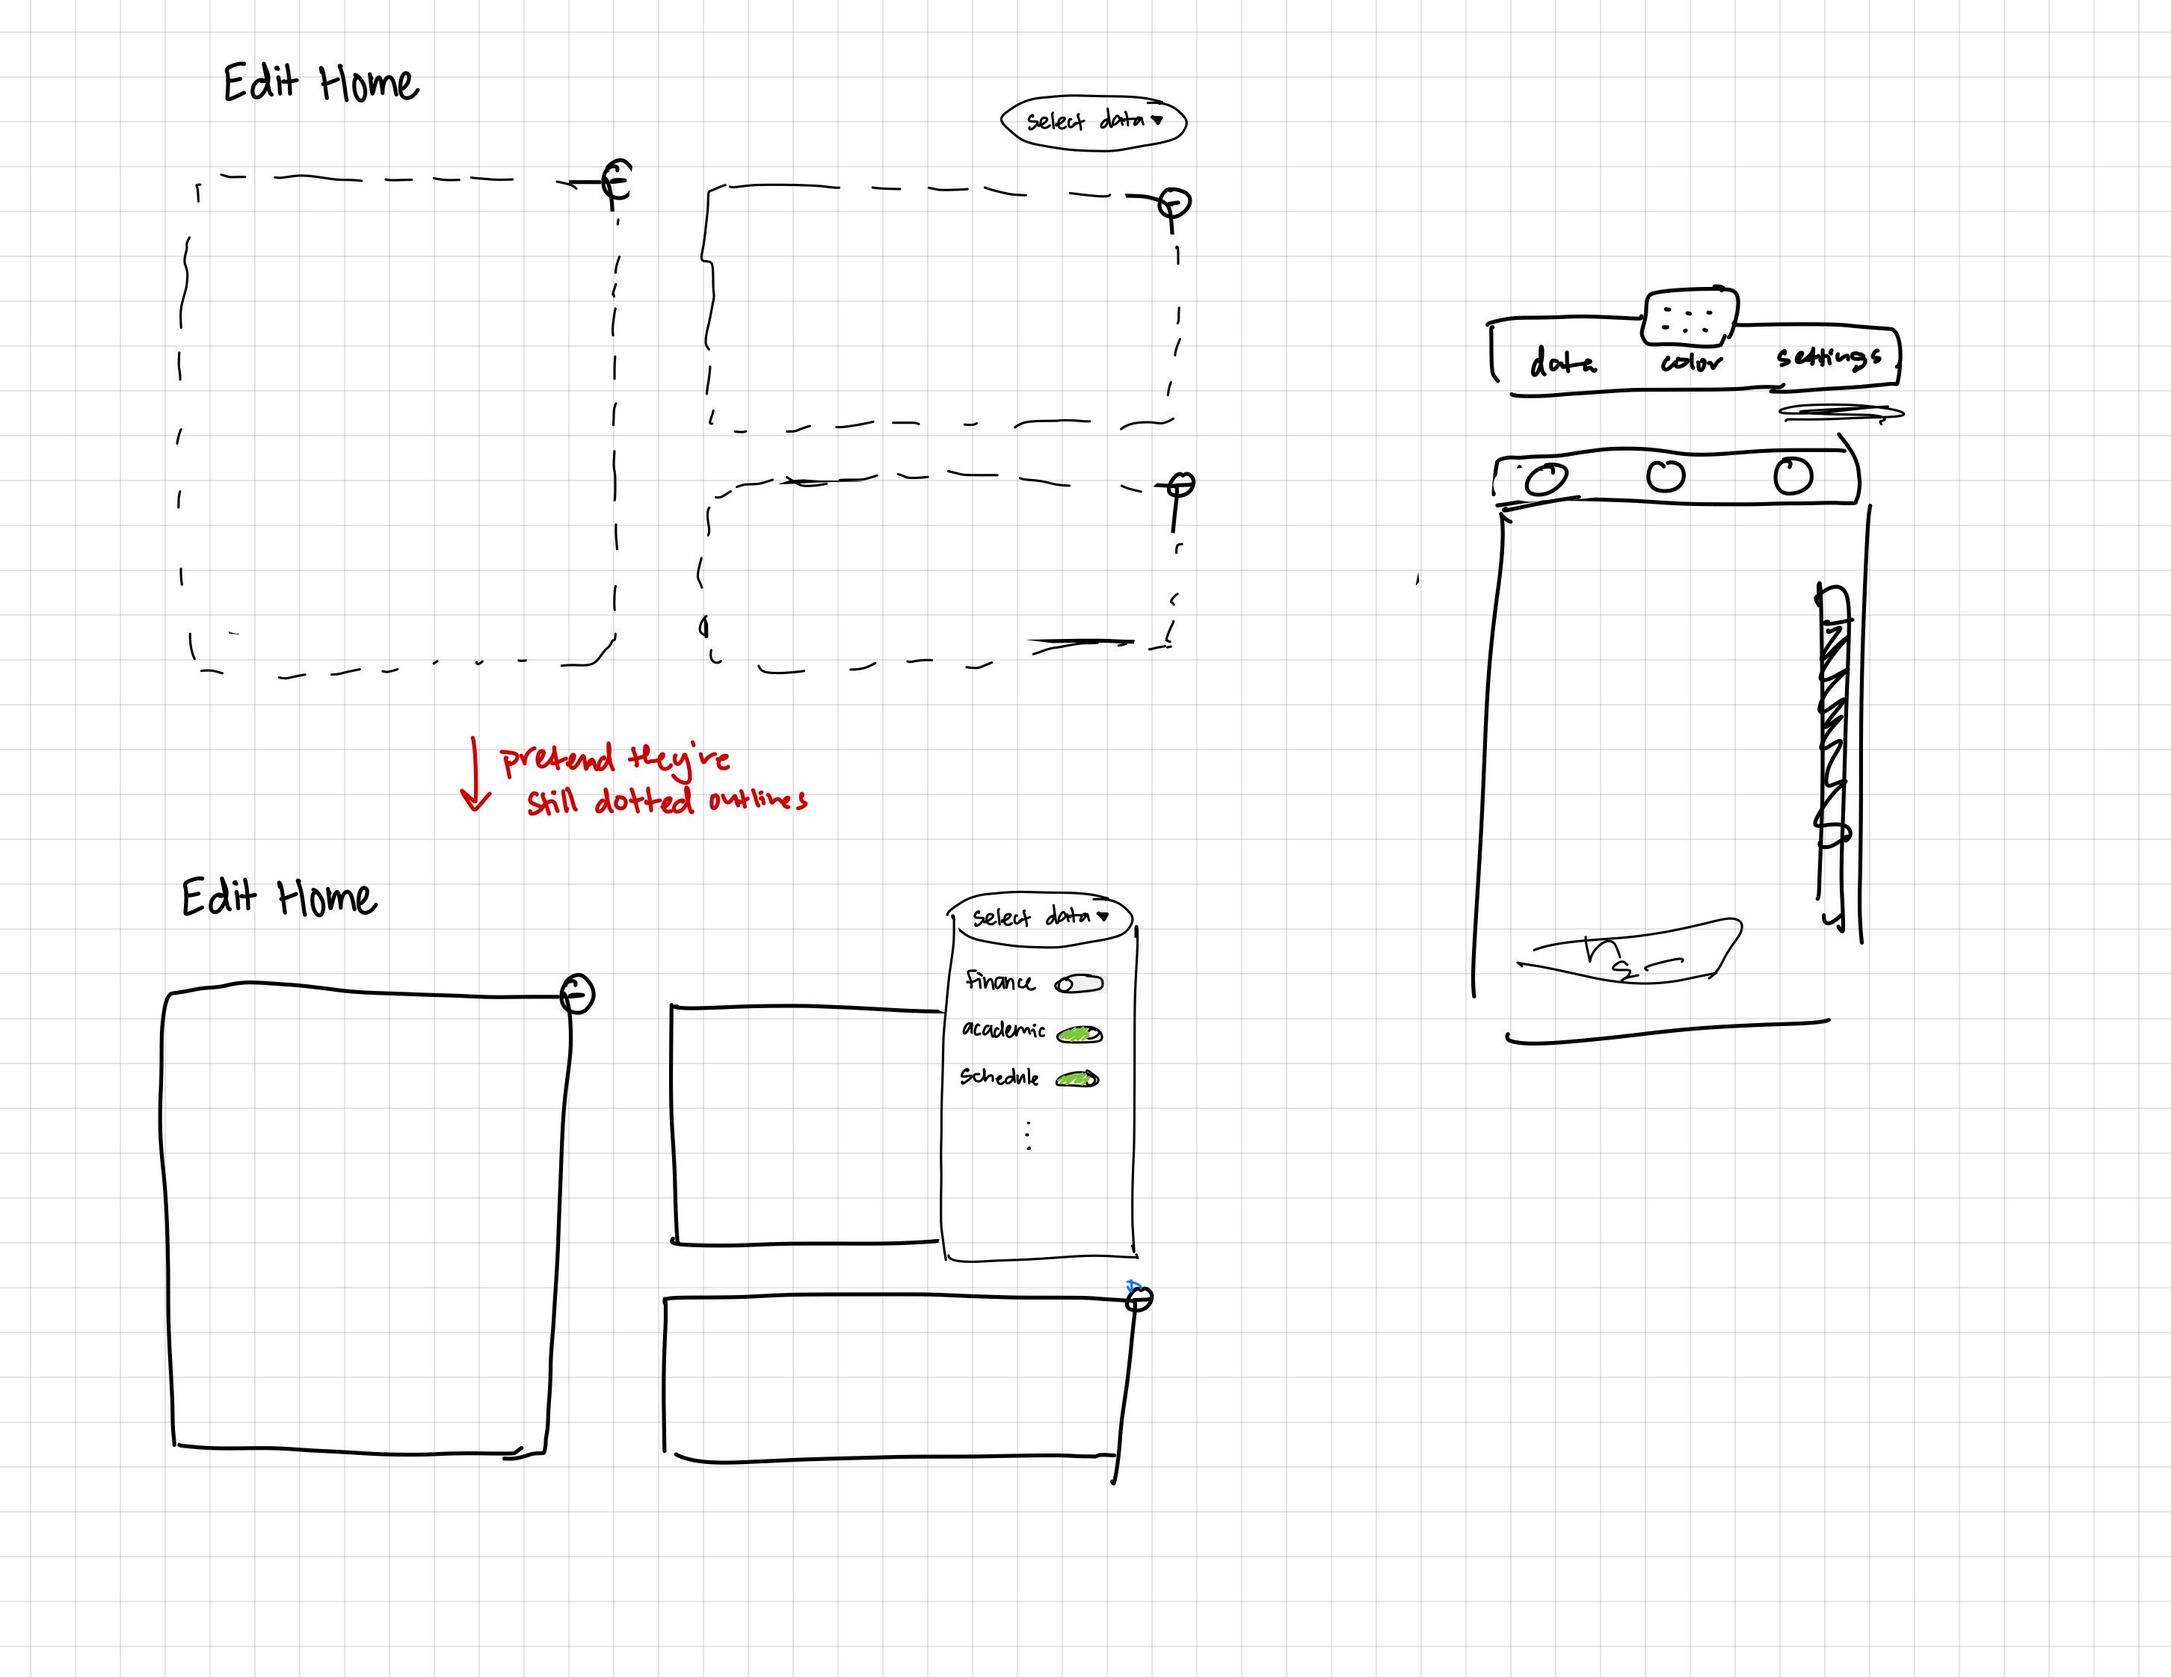
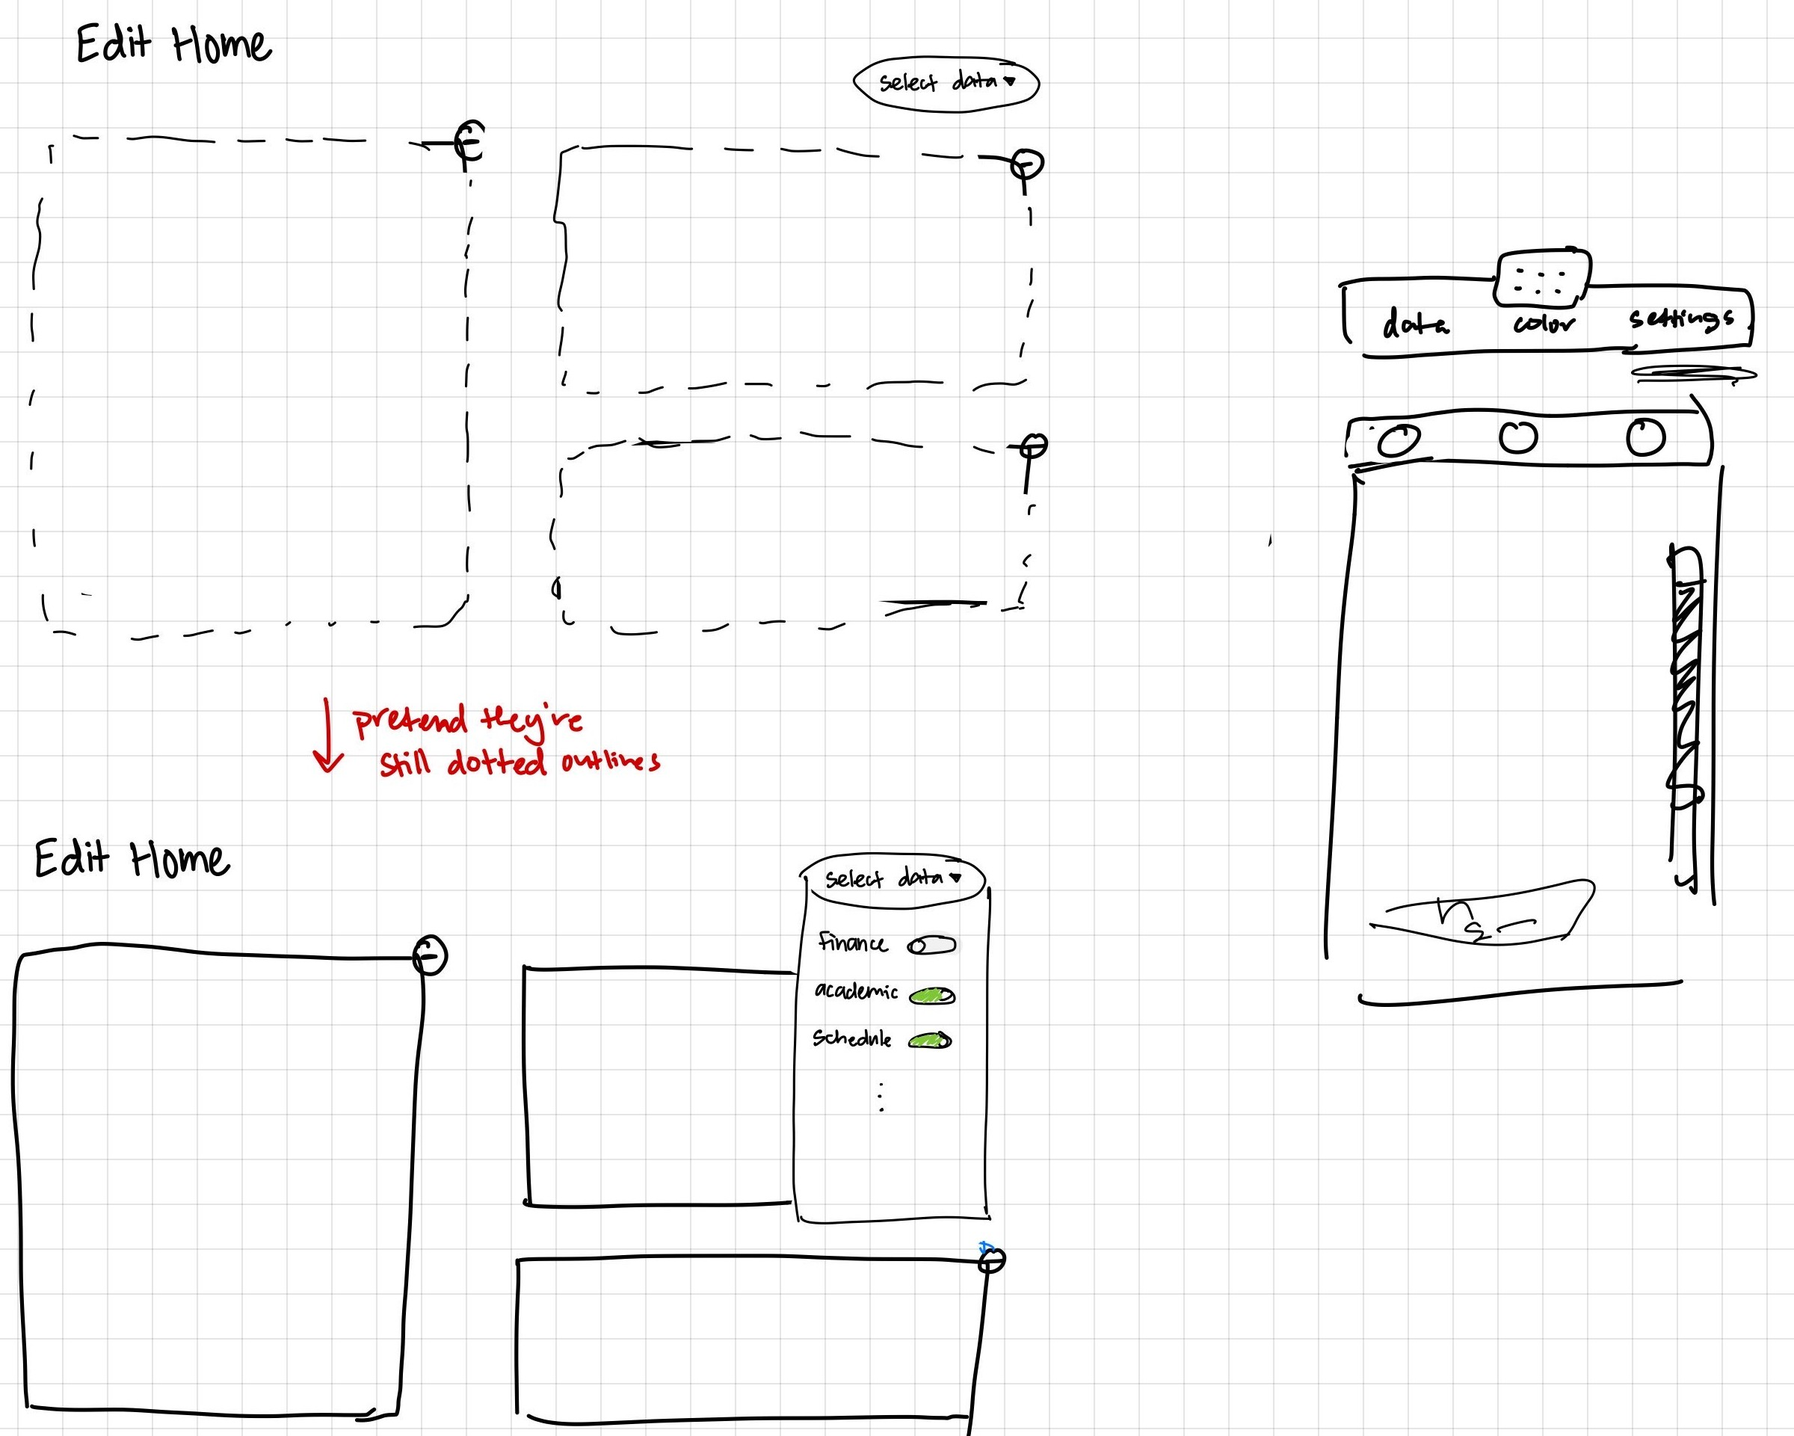
touchups to figures and updated viewport scaling

diff --git a/portfolio-website/src/pages/projects/BeaverHubPage.js b/portfolio-website/src/pages/projects/BeaverHubPage.js
@@ -233,7 +233,7 @@ const BeaverHubPage = () => {
                   since he always uses it when creating his schedule every term.
                 </li>
               </ul>
-              <div>
+              <div className="projectDivImg">
                 <img
                   src={require("../../images/beaverhub/timeblock-schedule.png")}
                   alt="Screenshot of a timeblock schedule."
@@ -356,7 +356,7 @@ const BeaverHubPage = () => {
             <div className="projectDivImg">
               <img
                 src={require("../../images/beaverhub/final-sketch-1.jpg")}
-                alt=""
+                alt="Colored sketch of Edit Mode with red minus icons on the top left corner of every module and a 6-dot icon positioned at the top edge of each module. The toolbar is collapsed."
               ></img>
             </div>
             <p>
@@ -366,7 +366,7 @@ const BeaverHubPage = () => {
             <div className="projectDivImg">
               <img
                 src={require("../../images/beaverhub/final-sketch-2.jpg")}
-                alt=""
+                alt="Colored sketch of Edit Mode with red minus icons on the top left corner of every module and a 6-dot icon positioned at the top edge of each module. The toolbar is expanded to show features to toggle the modules being displayed and adjust other color customization settings."
               ></img>
             </div>
             <p>
@@ -482,17 +482,58 @@ const BeaverHubPage = () => {
                 Improved customization of interface by{" "}
                 <mark class="stat">105%</mark>
               </li>
+              <div className="projectDivImg">
+                <img
+                  src={require("../../images/beaverhub/plot_interfaceCustomizability.png")}
+                  alt="100% stacked bar chart comparing participants' rating of interface customizability for Beaverhub versus our design. Beaverhub's bar is a mix of light greens while our design's bar is made up of two dark greens, signifying higher ratings of customizability."
+                ></img>
+              </div>
+              <p>
+                <strong>Figure 11.</strong> Participants' ratings of perceived
+                interface customizability.
+              </p>
               <li>
                 Reduced time to find GPA by <mark class="stat">61%</mark>
               </li>
+              <div className="projectDivImg">
+                <img
+                  src={require("../../images/beaverhub/plot_findGPA.png")}
+                  alt="Box plot chart comparing particpants' time to find GPA on Beaverhub versus our design. Beaverhub has an average of 5.89 seconds. Our design has an average of 2.27 seconds."
+                ></img>
+              </div>
+              <p>
+                <strong>Figure 12.</strong> Comparison of time taken (seconds)
+                by participants to find their GPA on each interface.
+              </p>
               <li>
-                Reduced time to find current balance by{" "}
+                Reduced time to find current balance due by{" "}
                 <mark class="stat">62%</mark>
               </li>
+              <div className="projectDivImg">
+                <img
+                  src={require("../../images/beaverhub/plot_findCurrentBalance.png")}
+                  alt="Box plot chart comparing particpants' time to find their current balance due on Beaverhub versus our design. Beaverhub has an average of  sec6.65onds. Our design has an average of 2.48 seconds."
+                ></img>
+              </div>
+              <p>
+                <strong>Figure 13.</strong> Comparison of time taken (seconds)
+                by participants to find their current financial balance due.
+              </p>
               <li>
-                Reduced time to find names and times of classes for one day by
+                Reduced time to find names and times of classes for one day by{" "}
                 <mark class="stat">60%</mark>
               </li>
+              <div className="projectDivImg">
+                <img
+                  src={require("../../images/beaverhub/plot_findMondayClasses.png")}
+                  alt="Box plot chart comparing particpants' time to find their Monday class schedule on Beaverhub versus our design. Beaverhub has an average of 9.99 seconds. Our design has an average of 3.92 seconds."
+                ></img>
+              </div>
+              <p>
+                <strong>Figure 14.</strong> Comparison of time taken (seconds)
+                by participants to find their Monday class schedule on each
+                interface.
+              </p>
               <li>
                 Reduced users’ cognitive load by <mark class="stat">87.5%</mark>{" "}
                 when reading schedule information

diff --git a/portfolio-website/src/App.css b/portfolio-website/src/App.css
@@ -21,8 +21,7 @@ hr {
 }
 
 .content-area {
-  padding: 1.5rem 2.5rem;
-  max-width: 70%;
+  max-width: 80%;
   margin: 0rem auto;
 }
 
@@ -177,17 +176,16 @@ mark.stat {
 }
 
 .projectDivImg {
-  display: flex;
-  align-items: flex-start;
   margin: 1rem 0rem;
+  overflow: hidden;
 }
 
 .projectDivImg img {
   object-fit: contain;
-  width: 100%;
   max-width: 100%;
-  height: auto;
+  max-height: 100%;
   display: block;
+  flex-grow: 1;
 }
 
 .projectLinksDiv {
@@ -289,9 +287,9 @@ mark.stat {
   font-size: x-large;
 }
 
-@media (max-width: 600px) {
+@media (max-width:799px) {
   .content-area {
-    max-width: 100%;
+    max-width: 90%;
   }
 
   .profileImage {
@@ -323,20 +321,11 @@ mark.stat {
 
   .multiColumnDiv {
     display: flex;
-    flex-flow: row wrap;
-    justify-content: space-between;
+    flex-flow: column wrap;
   }
 
-  .columnDiv {
+  .multiColumnDiv div {
     max-width: 100%;
-  }
-
-  .projectDivImg {
-    height: 15rem;
-  }
-
-  .projectDivImg img {
-    max-height: 30rem;
   }
 
   .multiColumnDiv img {
@@ -345,11 +334,6 @@ mark.stat {
   }
 }
 
-@media (min-width: 1000px) {
-  .projectTitle {
-    max-width: 22.5rem;
-  }
-}
 
 @media (min-width: 1500px) {
   .content-area {
